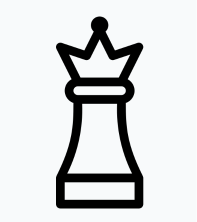
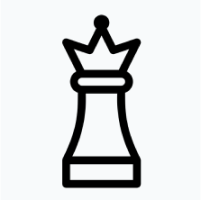
piece images

diff --git a/main.py b/main.py
@@ -1,6 +1,7 @@
 import pygame
 from celestial_war import GameBoard
 
+
 # Initialize pygame
 pygame.init()
 
@@ -8,6 +9,7 @@ pygame.init()
 WIDTH, HEIGHT = 800, 800
 BACKGROUND_COLOR = (30, 30, 30)
 GRID_COLOR = (230, 230, 230)
+SQUARE_SIZE = WIDTH // 10
 
 # Create the game window
 screen = pygame.display.set_mode((WIDTH, HEIGHT))
@@ -17,7 +19,6 @@ pygame.display.set_caption("Celestial War")
 game_board = GameBoard()
 
 def draw_board():
-    square_size = WIDTH // 10
 
     for x in range(10):
         for y in range(10):
@@ -27,9 +28,10 @@ def draw_board():
                 piece_color = piece.color.lower()
                 image_key = f"{piece_color}_{piece_type}"
                 image = piece_images[image_key]
-                screen.blit(image, (x * square_size, y * square_size))
+                screen.blit(image, (x * SQUARE_SIZE, y * SQUARE_SIZE))
 
-            rect = pygame.Rect(x * square_size, y * square_size, square_size, square_size)
+            rect = pygame.Rect(x * SQUARE_SIZE, y * SQUARE_SIZE, SQUARE_SIZE, SQUARE_SIZE)
+
             pygame.draw.rect(screen, GRID_COLOR, rect, 1)
 
 
@@ -42,8 +44,8 @@ def load_piece_images():
         for piece in pieces:
             image_name = f"{color}_{piece}.png"
             image = pygame.image.load(f"images/{image_name}")
-            images[f"{color}_{piece}"] = image
-
+            scaled_image = pygame.transform.scale(image, (SQUARE_SIZE, SQUARE_SIZE))
+            images[f"{color}_{piece}"] = scaled_image
     return images
 
 
